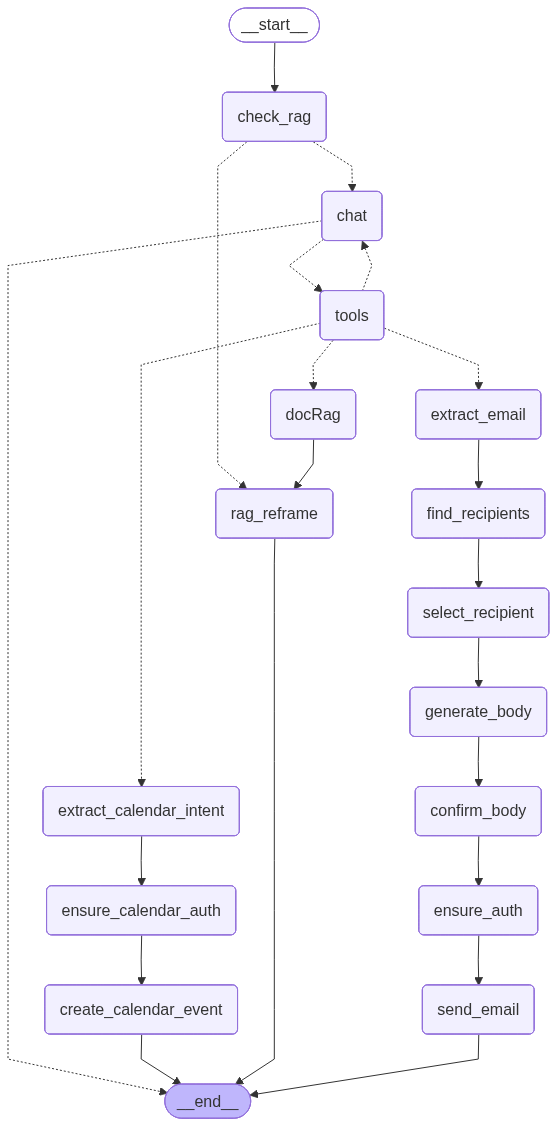
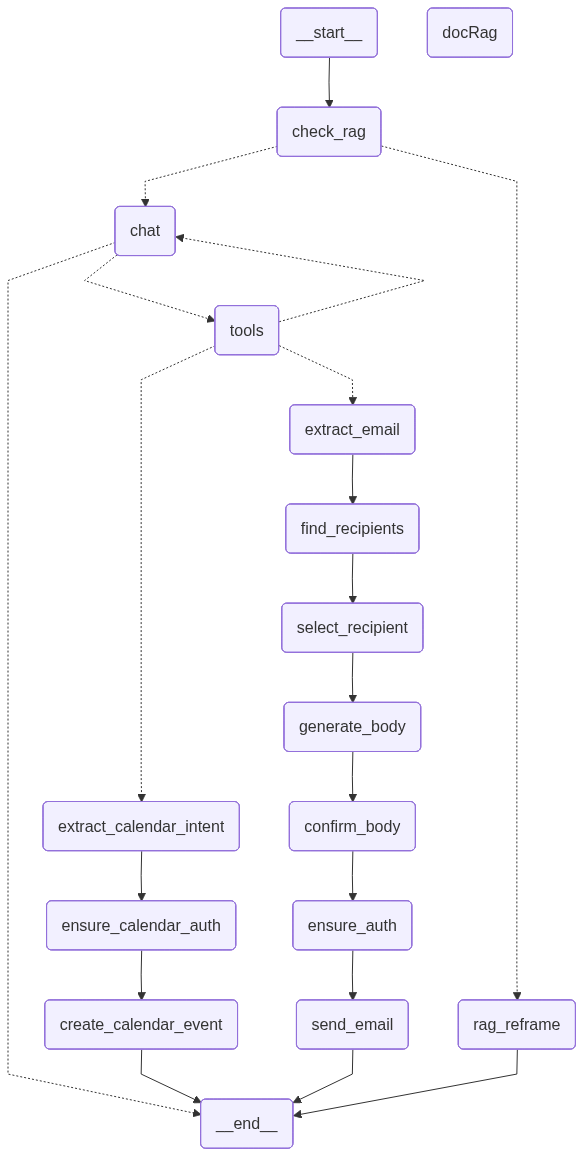
Change UI and format responses to user queries

diff --git a/Dashboard/AIbackend/streamlit_app.py b/Dashboard/AIbackend/streamlit_app.py
@@ -19,6 +19,7 @@ _DEFAULTS = dict(
     interrupt_data=None, interrupt_type=None, is_processing=False,
     user_email=None, user_org=None, auth_checked=False, threads_loaded=False,
     edit_box_open=False, edit_body_text="", sidebar_open=True,
+    input_key=0,
 )
 for _k, _v in _DEFAULTS.items():
     if _k not in st.session_state:
@@ -149,6 +150,13 @@ div[data-testid="stTextArea"] label{{display:none!important;}}
   border-top:1px solid {SB_BDR}!important;
   background:{PAGE_BG}!important;
   padding:10px 18px 12px!important;}}
+/* Sidebar always has a visible right border */
+[data-testid="stHorizontalBlock"]>[data-testid="column"]:first-child{{
+  border-right:2px solid {SB_BDR}!important;
+  background:{SB_BG}!important;}}
+/* Input+Send row: remove gap between columns */
+.input-row [data-testid="stHorizontalBlock"]{{
+  gap:6px!important;align-items:center!important;height:auto!important;}}
 </style>
 """, unsafe_allow_html=True)
 
@@ -537,10 +545,22 @@ with main_col:
             st.markdown('</div>', unsafe_allow_html=True)
         st.markdown('</div>', unsafe_allow_html=True)
     else:
-        # Normal message input
-        st.markdown('<div class="input-area">', unsafe_allow_html=True)
-        user_input = st.text_input("message_input", key="chat_input", label_visibility="collapsed")
-        st.markdown('<div class="send-btn">', unsafe_allow_html=True)
-        if st.button("Send ➤", key="btn_send"):
-            if user_input: do_send(user_input); st.rerun()
+        # Normal message input — input and send button side by side
+        st.markdown('<div class="chat-input-bar"><div class="input-row">', unsafe_allow_html=True)
+        inp_col, btn_col = st.columns([8, 1], gap="small")
+        with inp_col:
+            user_input = st.text_input(
+                "message_input",
+                key=f"chat_input_{ss.input_key}",
+                label_visibility="collapsed",
+                placeholder="Type a message…",
+            )
+        with btn_col:
+            st.markdown('<div class="send-btn">', unsafe_allow_html=True)
+            if st.button("➤", key="btn_send"):
+                if user_input:
+                    do_send(user_input)
+                    ss.input_key += 1
+                    st.rerun()
+            st.markdown('</div>', unsafe_allow_html=True)
         st.markdown('</div></div>', unsafe_allow_html=True)

diff --git a/Dashboard/AIbackend/routes/chat.py b/Dashboard/AIbackend/routes/chat.py
@@ -804,6 +804,11 @@ def _sse_stream(input_payload, config):
     for chunk, metadata in app_graph.stream(
         input_payload, config, stream_mode="messages"
     ):
+        # Only stream messages from nodes that are meant to output to the user
+        node_name = metadata.get("langgraph_node") if isinstance(metadata, dict) else None
+        if node_name not in ["chat", "rag_reframe", "create_calendar_event", "send_email"]:
+            continue
+
         if (
             isinstance(chunk, AIMessage)
             and chunk.content

diff --git a/Dashboard/AIbackend/test_graph.py b/Dashboard/AIbackend/test_graph.py
@@ -1,12 +1,6 @@
 import sys
 import os
 
-os.environ["MONGO_URL"] = "mongodb://localhost:27017"
-os.environ["GROQ-API-KEY"] = "dummy"
-os.environ["GOOGLE_CLIENT_ID"] = "dummy"
-os.environ["GOOGLE_CLIENT_SECRET"] = "dummy"
-os.environ["GOOGLE_REDIRECT_URI"] = "dummy"
-
 from routes.chat import app_graph
 
 try:
